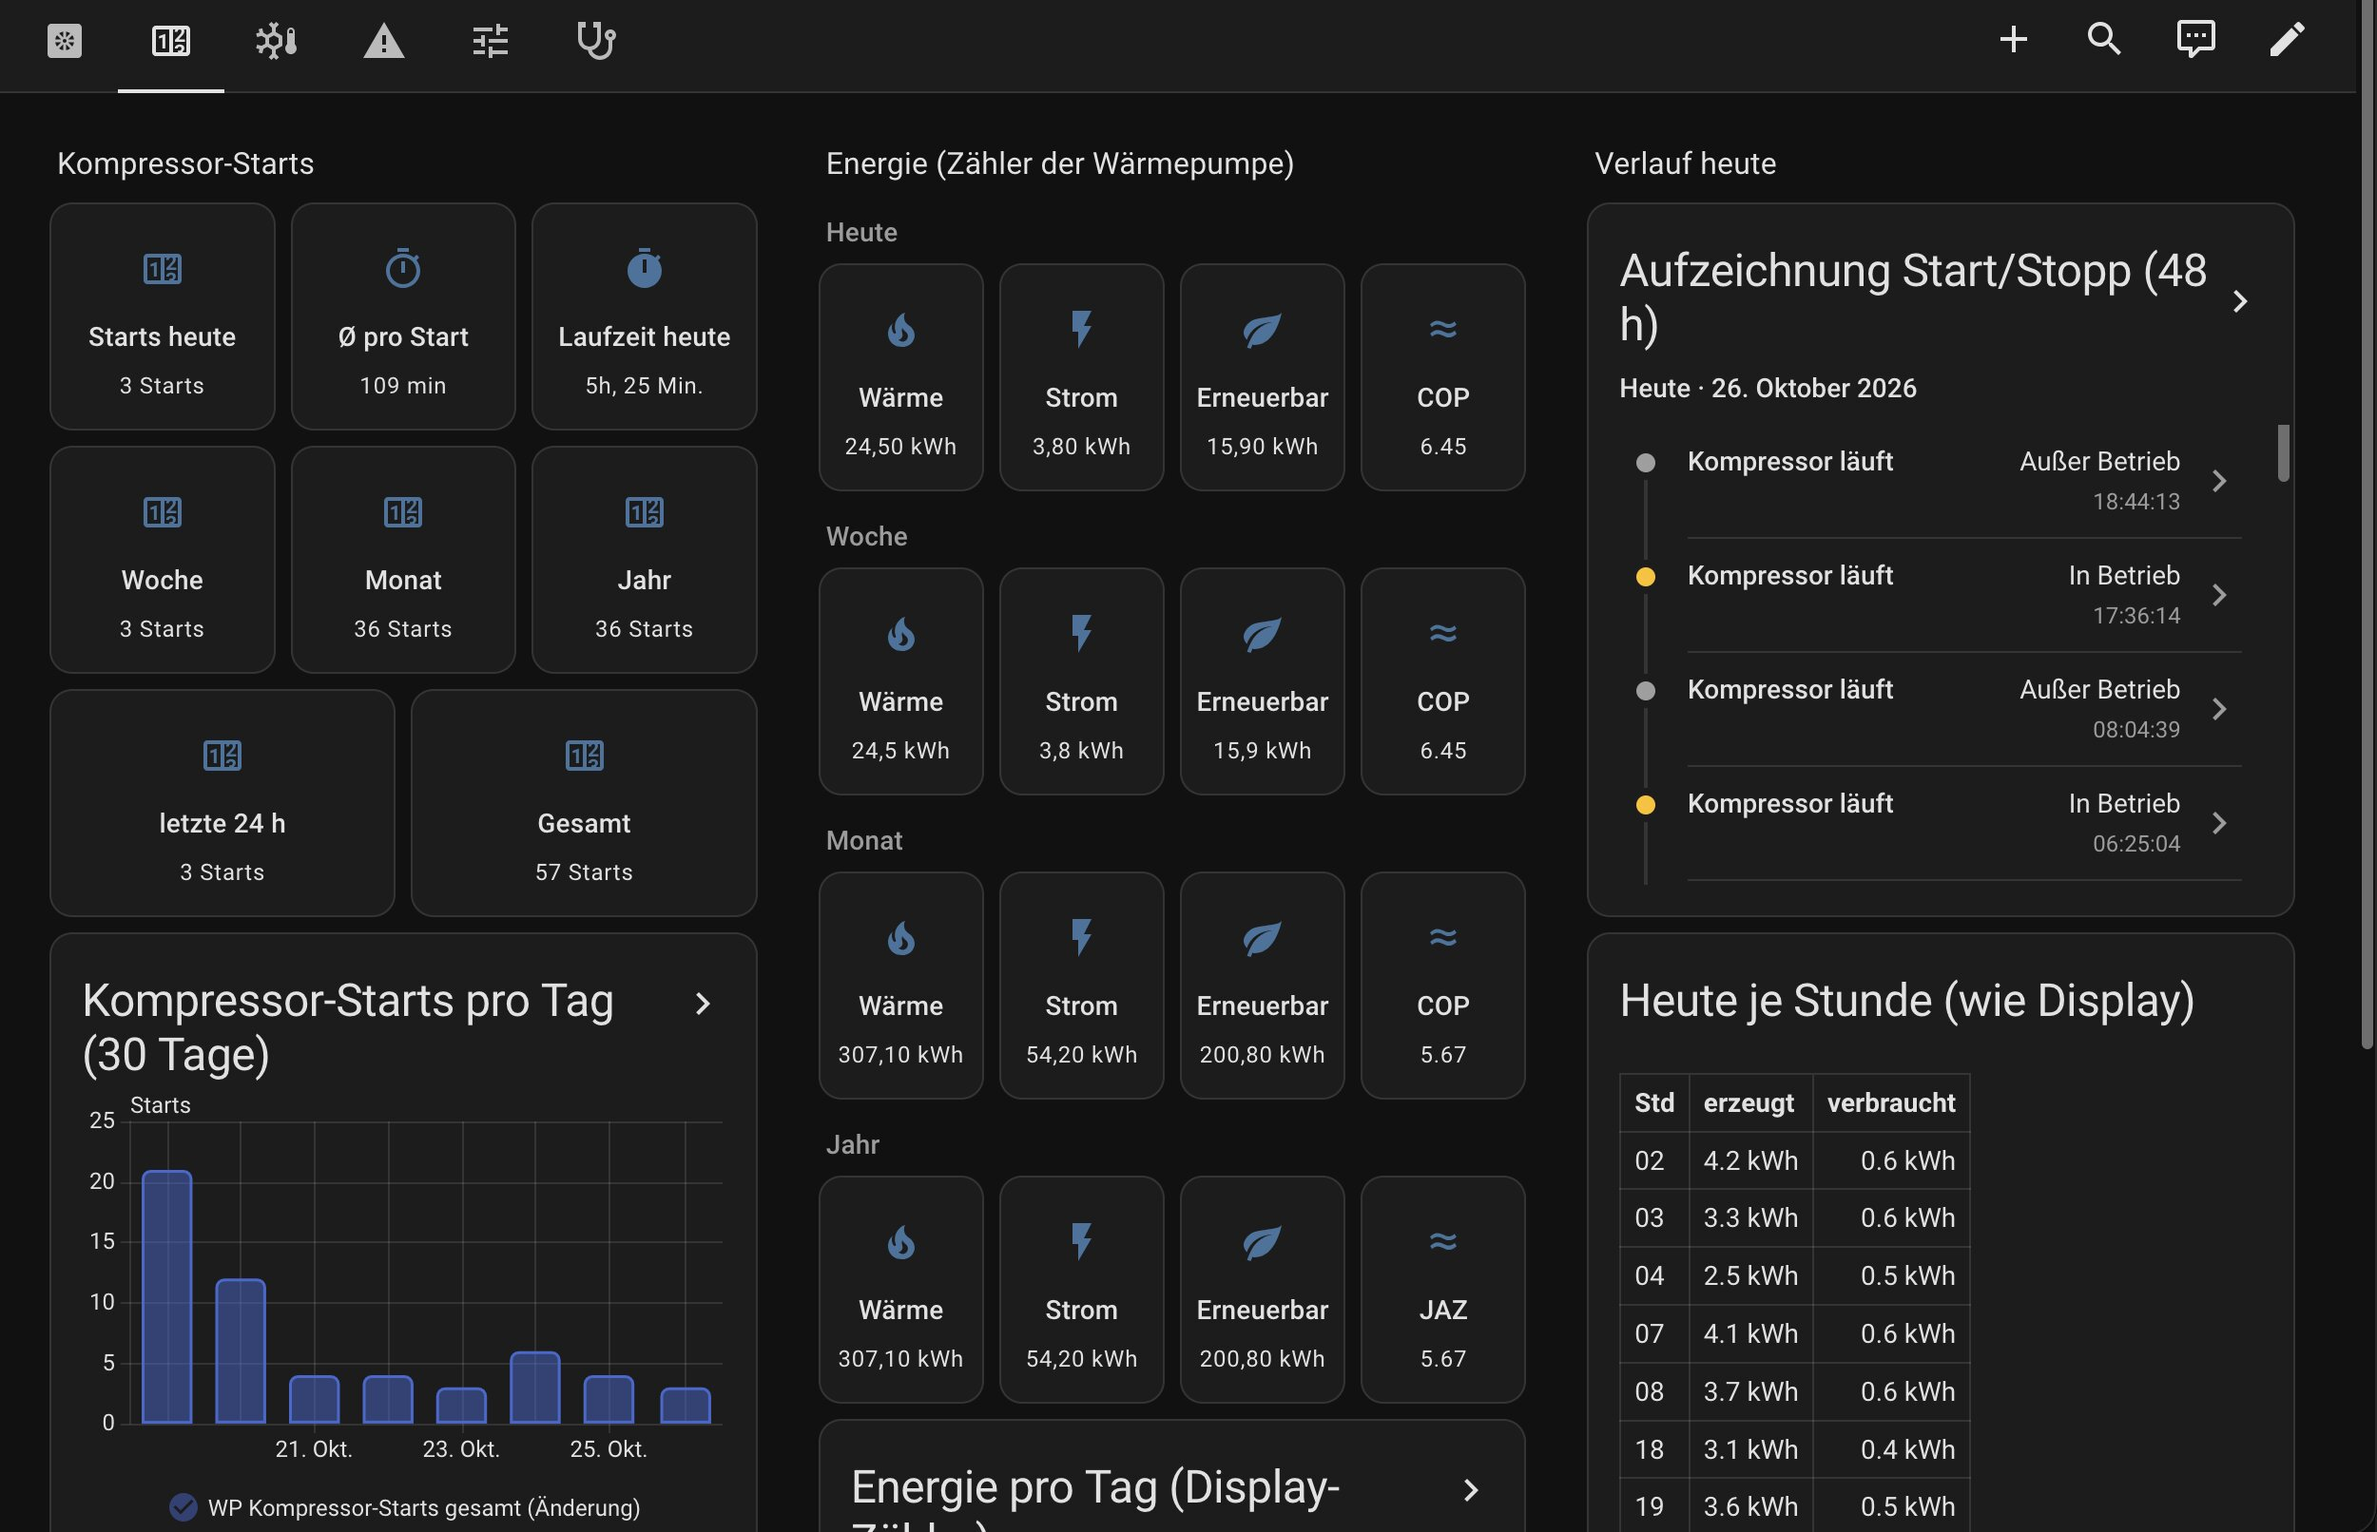
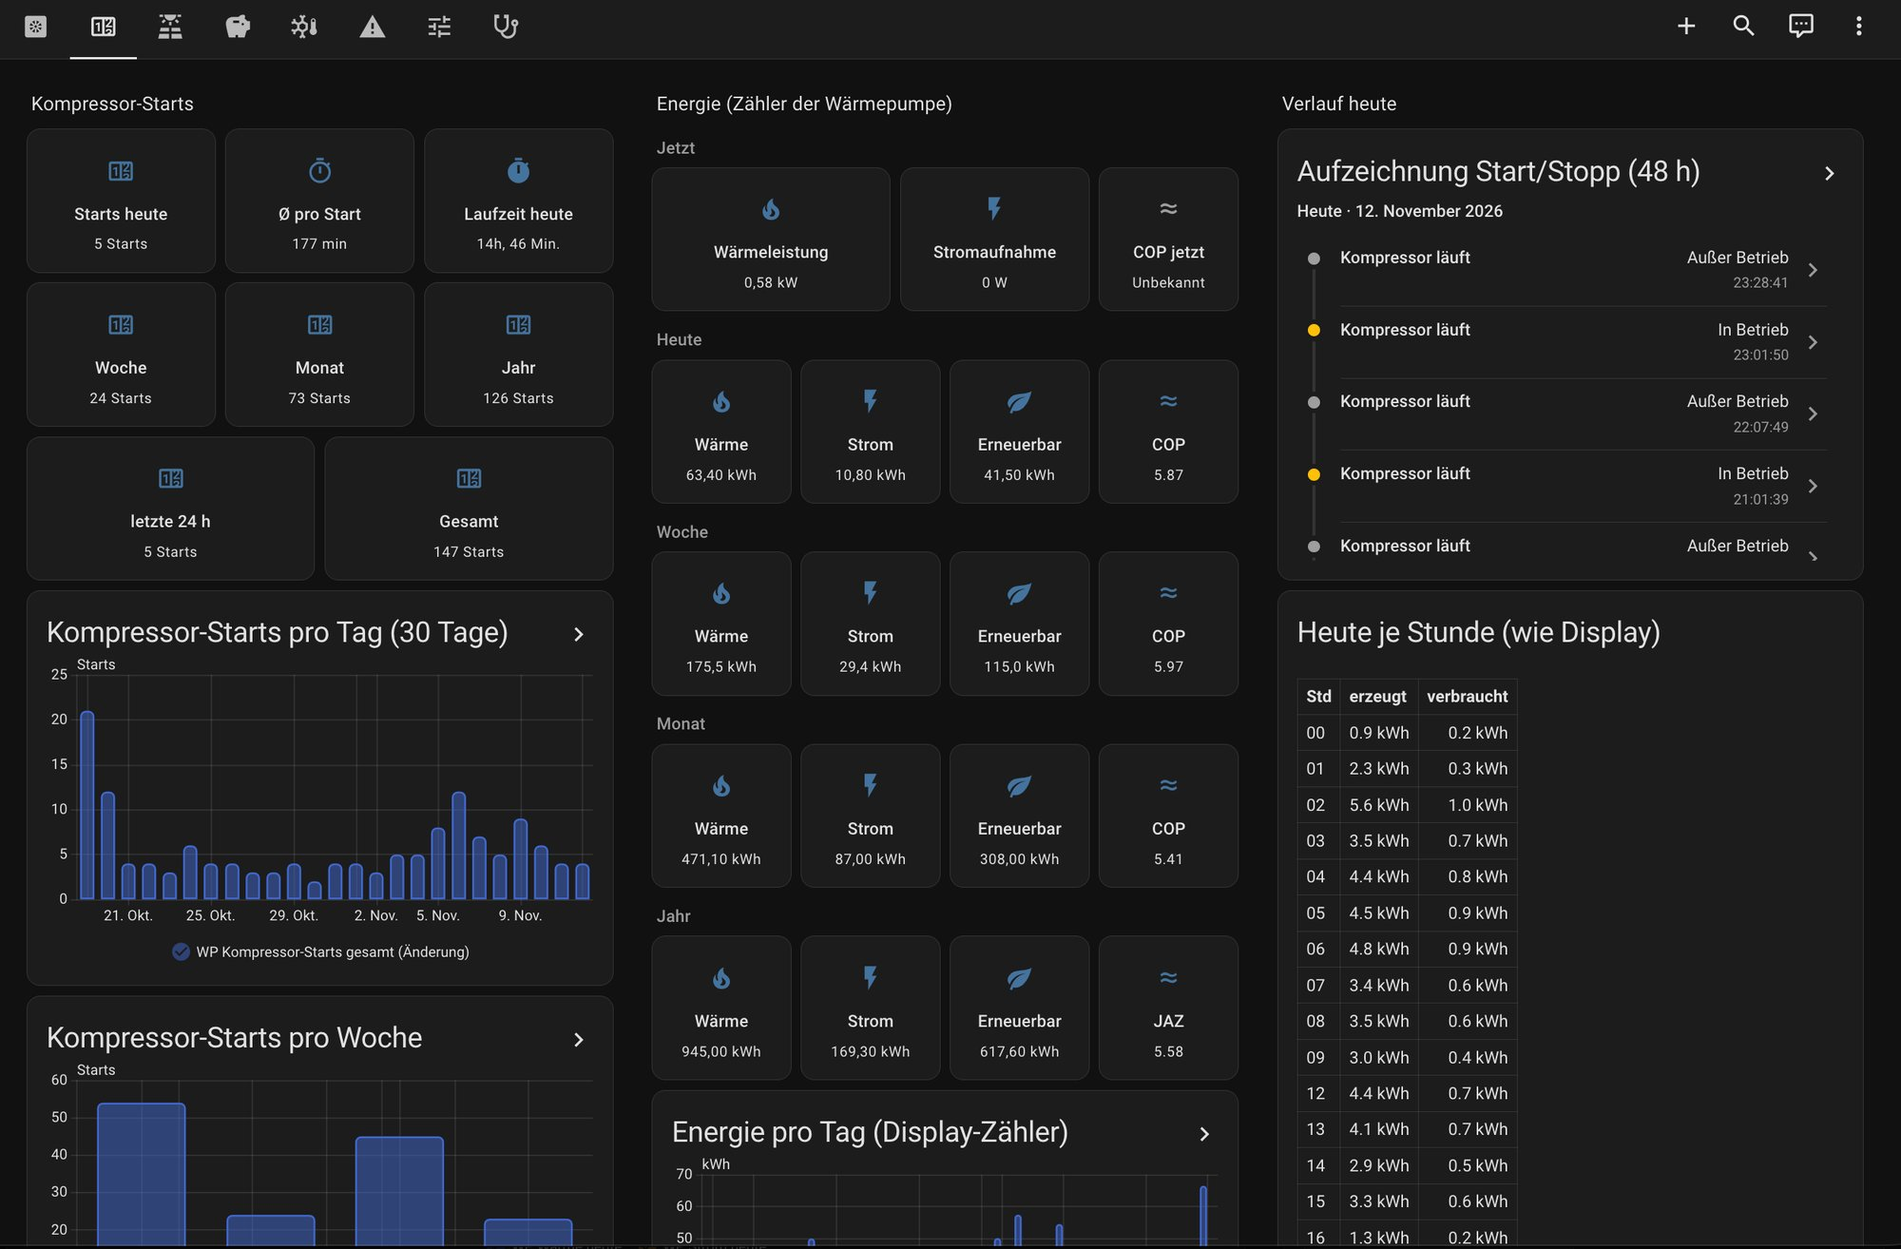
README: Screenshots PV, Einsparungen, Takte & Energie (neu), Optionen und Neu konfigurieren

diff --git a/README.md b/README.md
@@ -60,8 +60,12 @@ Komplette Einbindung einer **Avarma (Hofman Energy) R290 Monoblock-Wärmepumpe**
 | Arbeitsstatus | Energie pro Tag & Takte |
 |---|---|
 | ![Arbeitsstatus](docs/images/ha-arbeitsstatus.jpg) | ![Energie pro Tag und Takte](docs/images/ha-energie-takte.jpg) |
-| **Takte & Energie** | **Takte & Energie (Verläufe)** |
+| **Takte & Energie** (mit Leistung jetzt) | **Takte & Energie (Verläufe)** |
 | ![Takte & Energie](docs/images/ha-takte-energie.jpg) | ![Takte & Energie, Verläufe](docs/images/ha-takte-energie-2.jpg) |
+| **PV: Woher kommt der Strom der WP?** | **Einsparungen: Jahresübersicht und Preise** |
+| ![PV](docs/images/ha-pv.jpg) | ![Einsparungen](docs/images/ha-einsparungen.jpg) |
+| **Einsparungen: Heizkosten und Ersparnis je Monat** | **Einsparungen: CO₂ und Ersparnis je Jahr** |
+| ![Einsparungen je Monat](docs/images/ha-einsparungen-2.jpg) | ![Einsparungen CO₂ und Jahr](docs/images/ha-einsparungen-3.jpg) |
 | **Drücke, Temperaturen & Status** | **Kältekreis** |
 | ![Verläufe und Status](docs/images/ha-verlaeufe-status.jpg) | ![Kältekreis](docs/images/ha-kaeltekreis.jpg) |
 | **Fehler** | **Parameter** |
@@ -172,6 +176,10 @@ Den Ordner `custom_components/avarma` aus diesem Repository nach `<config>/custo
 
 > **IP oder Port später ändern:** Einstellungen → Geräte & Dienste → Avarma Wärmepumpe → beim Eintrag ⋮ → **Neu konfigurieren**. Die aktuellen Werte sind vorausgefüllt und lassen sich anpassen. Optionen, Zähler und Verläufe bleiben erhalten.
 
+| ⋮ → Neu konfigurieren | Verbindung ändern |
+|---|---|
+| <img src="docs/images/ha-integration-menue.jpg" width="420"> | <img src="docs/images/ha-neu-konfigurieren.jpg" width="380"> |
+
 ### 4.3 Optionen (Gerät → ⚙ **Konfigurieren**)
 
 | Option | Bedeutung |
@@ -185,6 +193,8 @@ Den Ordner `custom_components/avarma` aus diesem Repository nach `<config>/custo
 | **Netzleistung des Hauses** | *Optional, für die Seite „PV“.* Ein Sensor in **W** (oder kW) mit dem Netzbezug des ganzen Hauses: **+ = Bezug** aus dem Netz, − = Einspeisung. Typisch: Smart Meter (z. B. über P1-/IR-Lesekopf), Shelly 3EM/Pro 3EM („Total Power“), Netz-Sensor des Wechselrichters bzw. Energiezählers (Fronius, SMA, Victron „Grid“ …). Zählt dein Sensor umgekehrt (+ = Einspeisung), vorher einen Template-Sensor mit umgekehrtem Vorzeichen anlegen. Leer = keine PV-Auswertung. |
 | **Akkuleistung** | *Optional, nur mit Hausakku.* Sensor in **W** mit der Lade-/Entladeleistung des Akkus: Standard **+ = Laden, − = Entladen** (wie Victron „Battery power“). Ohne Akku-Sensor wird PV und Akku gemeinsam als „PV“ gezählt. |
 | **Akku-Sensor zählt umgekehrt** | Einschalten, wenn dein Akku-Sensor beim **Entladen positiv** ist (bei manchen Hybrid-Wechselrichtern so). Prüfen: abends ohne Sonne, wenn der Akku das Haus versorgt, muss der Sensor ohne Schalter **negativ** sein. |
+
+<img src="docs/images/ha-optionen.jpg" width="480" alt="Optionen der Integration">
 
 ### 4.4 Dashboard
 Das Dashboard **„Wärmepumpe“** legt die Integration selbst an. Es erscheint nach dem Einrichten automatisch in der Seitenleiste, mit allen Unterseiten und dem Display-Nachbau. **card-mod oder andere Zusatzkarten sind nicht nötig** – auch die Diagramme der Seiten „PV“ und „Einsparungen“ bringt die Integration selbst mit. Mit jedem Update der Integration wird auch das Dashboard aktualisiert. Nach einem Update die Seite einmal neu laden (Cmd/Strg + Shift + R, in der App: Frontend-Cache zurücksetzen), sonst zeigen neue Karten „Konfigurationsfehler“.
@@ -252,9 +262,13 @@ Voraussetzung: in den Optionen (4.3) die **Netzleistung des Hauses** eintragen, 
 
 So wird gerechnet: Die WP zählt ihren Strom in 0,1-kWh-Schritten. Jeder Schritt wird mit dem gleichzeitig gemessenen Netzbezug und der Akku-Entladung verglichen. **Netz zuerst** (so viel, wie das Haus in der Zeit bezogen hat), **dann Akku** (so viel, wie der Akku abgegeben hat), **der Rest ist PV**. Laufen gleichzeitig andere Verbraucher, wird der Netzanteil der WP dadurch eher zu hoch angesetzt – die PV-Ersparnis ist also eher vorsichtig gerechnet. Akkuladung aus dem Netz wird nicht erkannt. Beim ersten Eintragen rechnet die Integration rückwirkend ab Jahresbeginn nach, soweit Home Assistant Statistiken der Sensoren hat.
 
+![Seite PV](docs/images/ha-pv.jpg)
+
 Die Seite zeigt die Leistung jetzt sowie Heute, Woche, Monat und Jahr als Anteilsbalken, dazu Balkendiagramme je Tag (letzte 30 Tage) und je Monat. Zusätzlich gibt es die Sensoren `sensor.wp_strom_aus_netz_…`, `…_akku_…`, `…_pv_…` (heute/woche/monat/jahr) und `sensor.wp_netzanteil_strom_…`.
 
 ### Einsparungen: Was spart die Wärmepumpe?
+![Seite Einsparungen](docs/images/ha-einsparungen.jpg)
+
 Auf der Seite **„Einsparungen“** rechts die eigenen Preise eintragen (Felder mit Beispielwerten vorbelegt):
 
 | Bereich | Felder | Hinweise |
